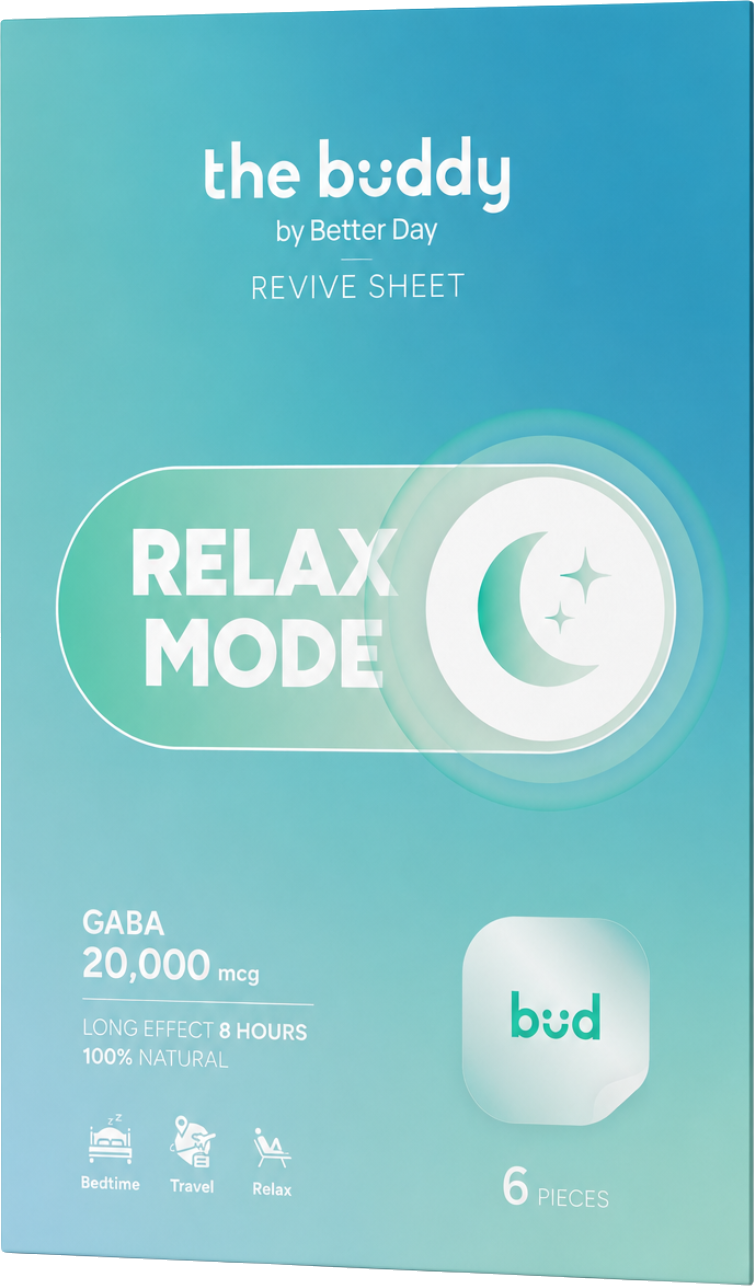
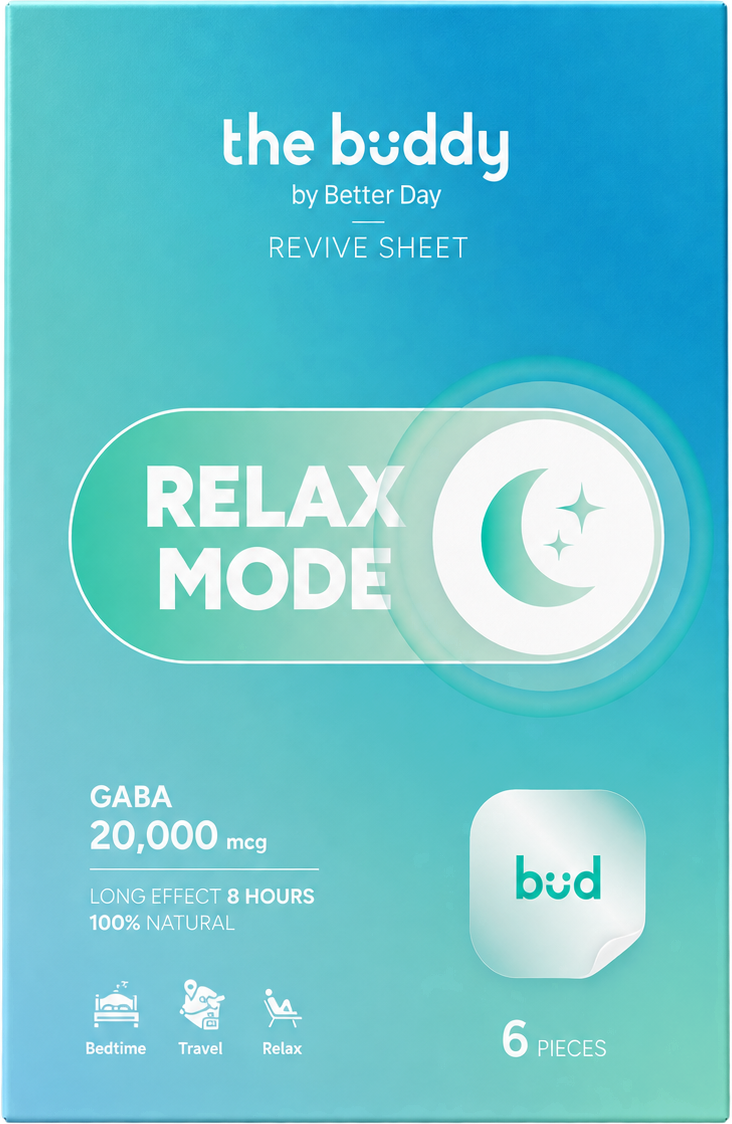
Use the new flat Relax Mode box art in products and promotion
The supplied render carried 42% transparent padding either side, so it
was cropped to the box itself (732x1124) to match the other product
images, which have no padding. Sizing was then retuned so the visible
box sits comfortably next to the Focus / Night Out pouches:

  products, desktop   288x492 -> 306x470  (pouches render 317x440)
  products, mobile    224px   -> 204px max-width
  promotion card      124x212 -> 131x201  (pouches render 136x189)

The bestseller hero is untouched: it uses assets/relax_box.png, a
different file, and its geometry is unchanged at 400x446.

diff --git a/index-en.html b/index-en.html
@@ -106,7 +106,7 @@
   @keyframes float-orbit{0%,100%{transform:translateY(0)}50%{transform:translateY(-16px)}}
   .ingredients{display:grid;grid-template-columns:repeat(4,1fr);gap:14px;max-width:820px;margin:8px auto 40px}
   .ingredients .ing{background:rgba(255,255,255,0.7);backdrop-filter:blur(16px);border:1px solid rgba(255,255,255,0.6);border-radius:16px;padding:18px 12px;text-align:center;font-size:15px;font-weight:600;color:var(--ink);box-shadow:0 10px 28px rgba(14,31,42,0.06)}
-  .mode-relax .mode-pouch{height:492px}
+  .mode-relax .mode-pouch{height:470px}
   .mode-cta{text-align:center}
   .mode-legal{text-align:center;font-size:11px;opacity:0.55;margin-top:20px}
   @media(max-width:880px){.mode-stage{height:auto;flex-direction:column;gap:20px;margin:16px 0}.mode-pouch{height:320px}.mode-relax .mode-pouch{height:358px}.orbit-item{position:static;animation:none}.ingredients{grid-template-columns:repeat(2,1fr)}}
@@ -209,6 +209,7 @@
   .promo-card .pc-img{height:212px;display:flex;align-items:center;justify-content:center;margin-bottom:14px}
   .promo-card .pc-img img{max-height:100%;max-width:90%;object-fit:contain;filter:drop-shadow(0 14px 24px rgba(14,31,42,0.2))}
   .pc-focus .pc-img img,.pc-night .pc-img img{max-height:89%}
+  .pc-relax .pc-img img{max-height:95%}
   .promo-card h4{font-size:20px;font-weight:600;margin-bottom:4px}
   .promo-card .pc-th{font-size:13px;color:var(--char);opacity:0.65;margin-bottom:14px}
   .promo-card .pc-price{display:flex;align-items:baseline;justify-content:center;gap:10px}
@@ -352,7 +353,7 @@
     .oi-2{grid-column:1;grid-row:2;align-self:start;animation-delay:-1.5s}
     .oi-3{grid-column:3;grid-row:1/span 2;animation-delay:-2.5s}
     .mode-pouch{grid-column:2;grid-row:1/span 2;height:auto;width:100%;max-width:210px}
-    .mode-relax .mode-pouch{height:auto;max-width:224px}
+    .mode-relax .mode-pouch{height:auto;max-width:204px}
   }
 </style>
 </head>

diff --git a/index.html b/index.html
@@ -106,7 +106,7 @@
   @keyframes float-orbit{0%,100%{transform:translateY(0)}50%{transform:translateY(-16px)}}
   .ingredients{display:grid;grid-template-columns:repeat(4,1fr);gap:14px;max-width:820px;margin:8px auto 40px}
   .ingredients .ing{background:rgba(255,255,255,0.7);backdrop-filter:blur(16px);border:1px solid rgba(255,255,255,0.6);border-radius:16px;padding:18px 12px;text-align:center;font-size:15px;font-weight:600;color:var(--ink);box-shadow:0 10px 28px rgba(14,31,42,0.06)}
-  .mode-relax .mode-pouch{height:492px}
+  .mode-relax .mode-pouch{height:470px}
   .mode-cta{text-align:center}
   .mode-legal{text-align:center;font-size:11px;opacity:0.55;margin-top:20px}
   @media(max-width:880px){.mode-stage{height:auto;flex-direction:column;gap:20px;margin:16px 0}.mode-pouch{height:320px}.mode-relax .mode-pouch{height:358px}.orbit-item{position:static;animation:none}.ingredients{grid-template-columns:repeat(2,1fr)}}
@@ -209,6 +209,7 @@
   .promo-card .pc-img{height:212px;display:flex;align-items:center;justify-content:center;margin-bottom:14px}
   .promo-card .pc-img img{max-height:100%;max-width:90%;object-fit:contain;filter:drop-shadow(0 14px 24px rgba(14,31,42,0.2))}
   .pc-focus .pc-img img,.pc-night .pc-img img{max-height:89%}
+  .pc-relax .pc-img img{max-height:95%}
   .promo-card h4{font-size:20px;font-weight:600;margin-bottom:4px}
   .promo-card .pc-th{font-size:13px;color:var(--char);opacity:0.65;margin-bottom:14px}
   .promo-card .pc-price{display:flex;align-items:baseline;justify-content:center;gap:10px}
@@ -352,7 +353,7 @@
     .oi-2{grid-column:1;grid-row:2;align-self:start;animation-delay:-1.5s}
     .oi-3{grid-column:3;grid-row:1/span 2;animation-delay:-2.5s}
     .mode-pouch{grid-column:2;grid-row:1/span 2;height:auto;width:100%;max-width:210px}
-    .mode-relax .mode-pouch{height:auto;max-width:224px}
+    .mode-relax .mode-pouch{height:auto;max-width:204px}
   }
 </style>
 </head>
